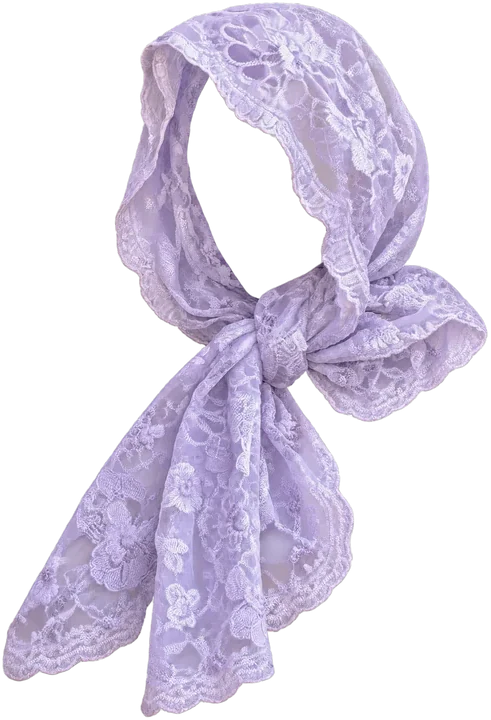
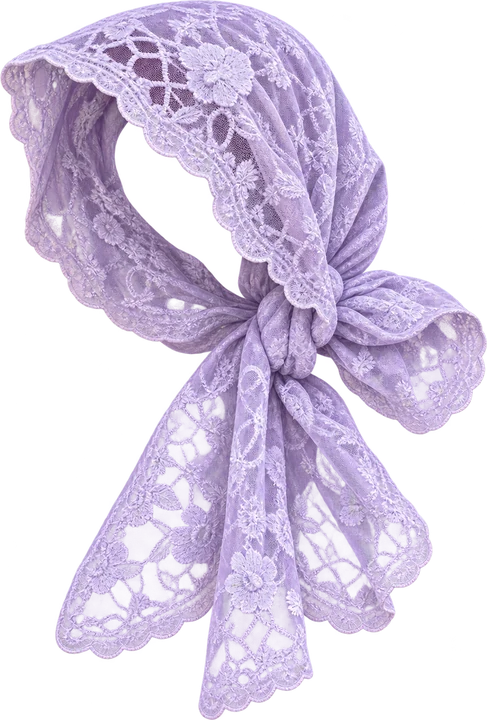
update

diff --git a/src/palais/clothes.ts b/src/palais/clothes.ts
@@ -138,7 +138,7 @@ export const CLOTHES = wardrobe({
   "cider-embroidered-dress": { label: "White embroidered mini dress", store: "Cider", bought: "2023-02", kind: "dress" },
   "cider-tie-shoulder-dress": { label: "Lime tie-shoulder dress", store: "Cider", bought: "2023-02", kind: "dress" },
   "cider-pearl-cardigan": { label: "Pastel pearl-button cardigan", store: "Cider", bought: "2023-02", kind: "cardigan" },
-  "cider-toile-dress": { label: "Toile de Jouy bow dress", store: "Cider", bought: "2023-02", kind: "dress" },
+  "cider-toile-dress": { label: "Green toile de Jouy tiered mini", store: "Cider", bought: "2023-02", kind: "dress" },
   "cider-corduroy-dress": { label: "Teal floral corduroy dress", store: "Cider", bought: "2023-02", kind: "dress" },
   "cider-lemon-dress": { label: "Lemon print ruffle dress", store: "Cider", bought: "2023-02", kind: "dress" },
   "cider-fur-trim-dress": { label: "Moss velvet fur-trim dress", store: "Cider", bought: "2022-11", kind: "dress" },

diff --git a/src/palais/DressUp.tsx b/src/palais/DressUp.tsx
@@ -108,6 +108,9 @@ const WEAR: Partial<Record<string, Partial<(typeof FIT)[ClothesKind]>>> = {
   "cider-star-moon-fishnets": { top: 0.38, w: 0.3, h: 0.62 },  // waist to toe
   "cider-brown-knee-high-boots": { top: 0.66, w: 0.24, h: 0.34 },  // knee to sole
   "ar-effortless-pant-black": { top: 0.4, w: 0.3, h: 0.55 },       // hip to ankle
+  // a head scarf is a cap and two long tails: the hat box is a cap's worth of
+  // room, so the tails would be crushed into her crown without this
+  "lavender-lace-head-scarf": { top: 0.0, w: 0.22, h: 0.3 },       // crown to chest
 };
 
 /** the first two words of a name, which is all a phone has room for */
